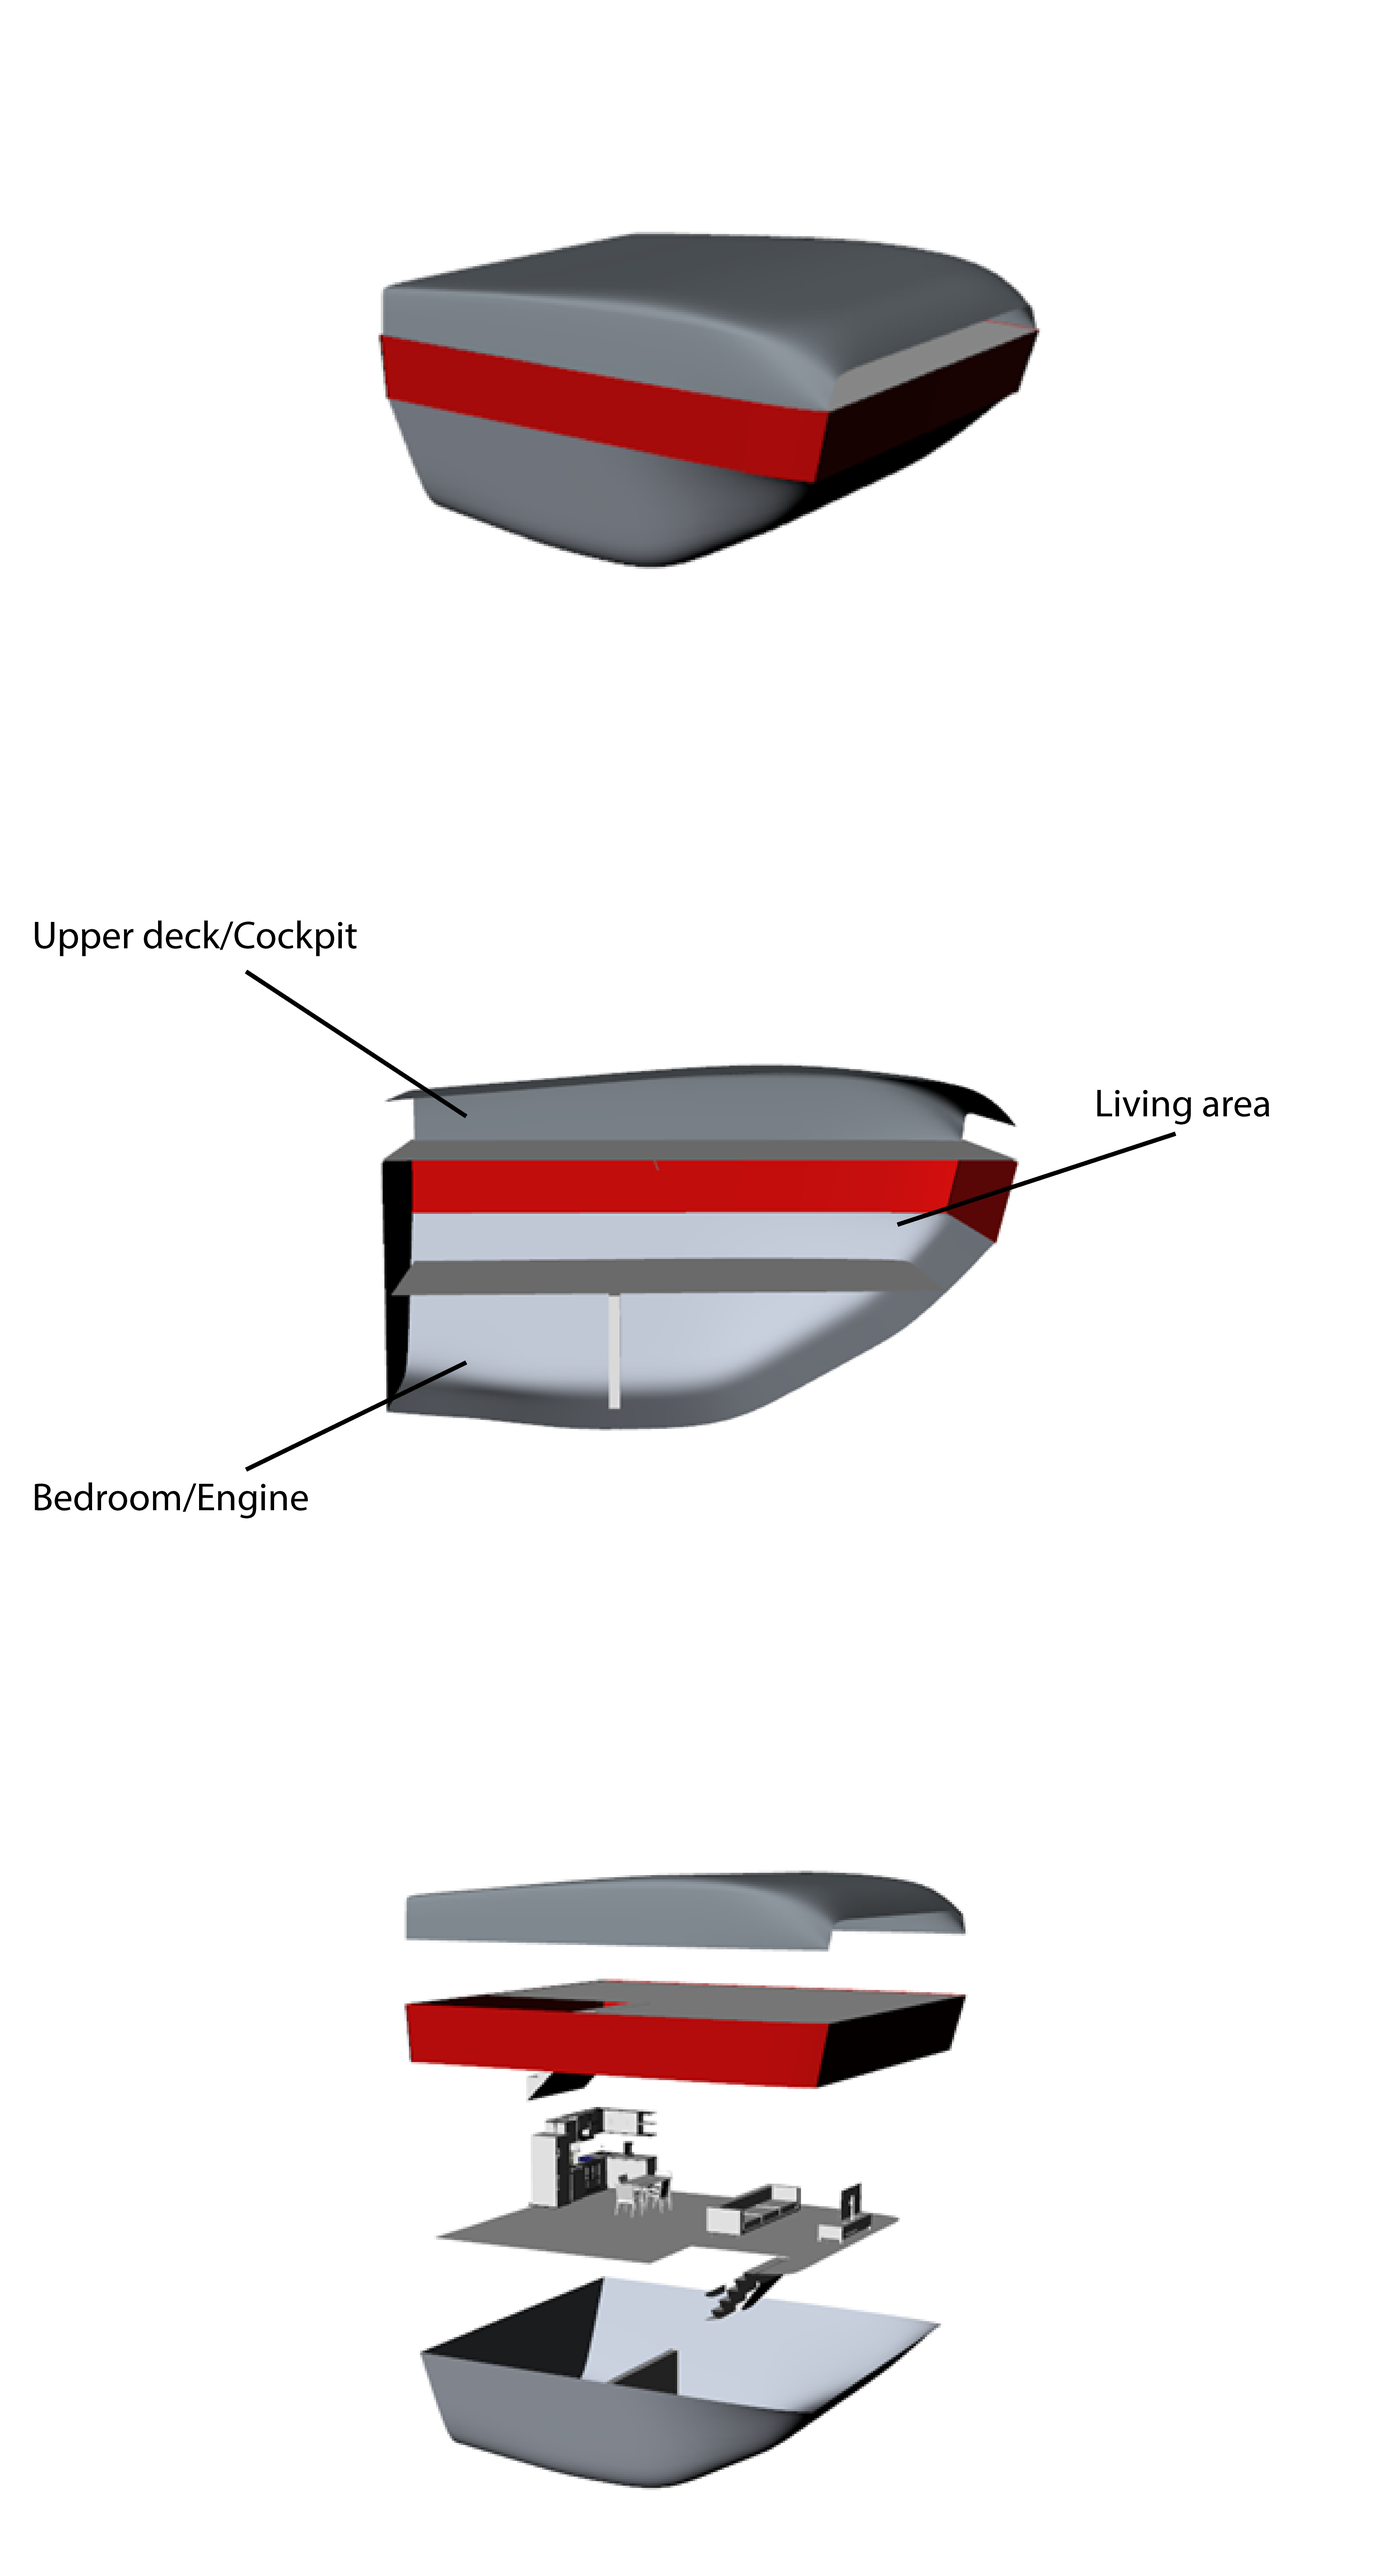
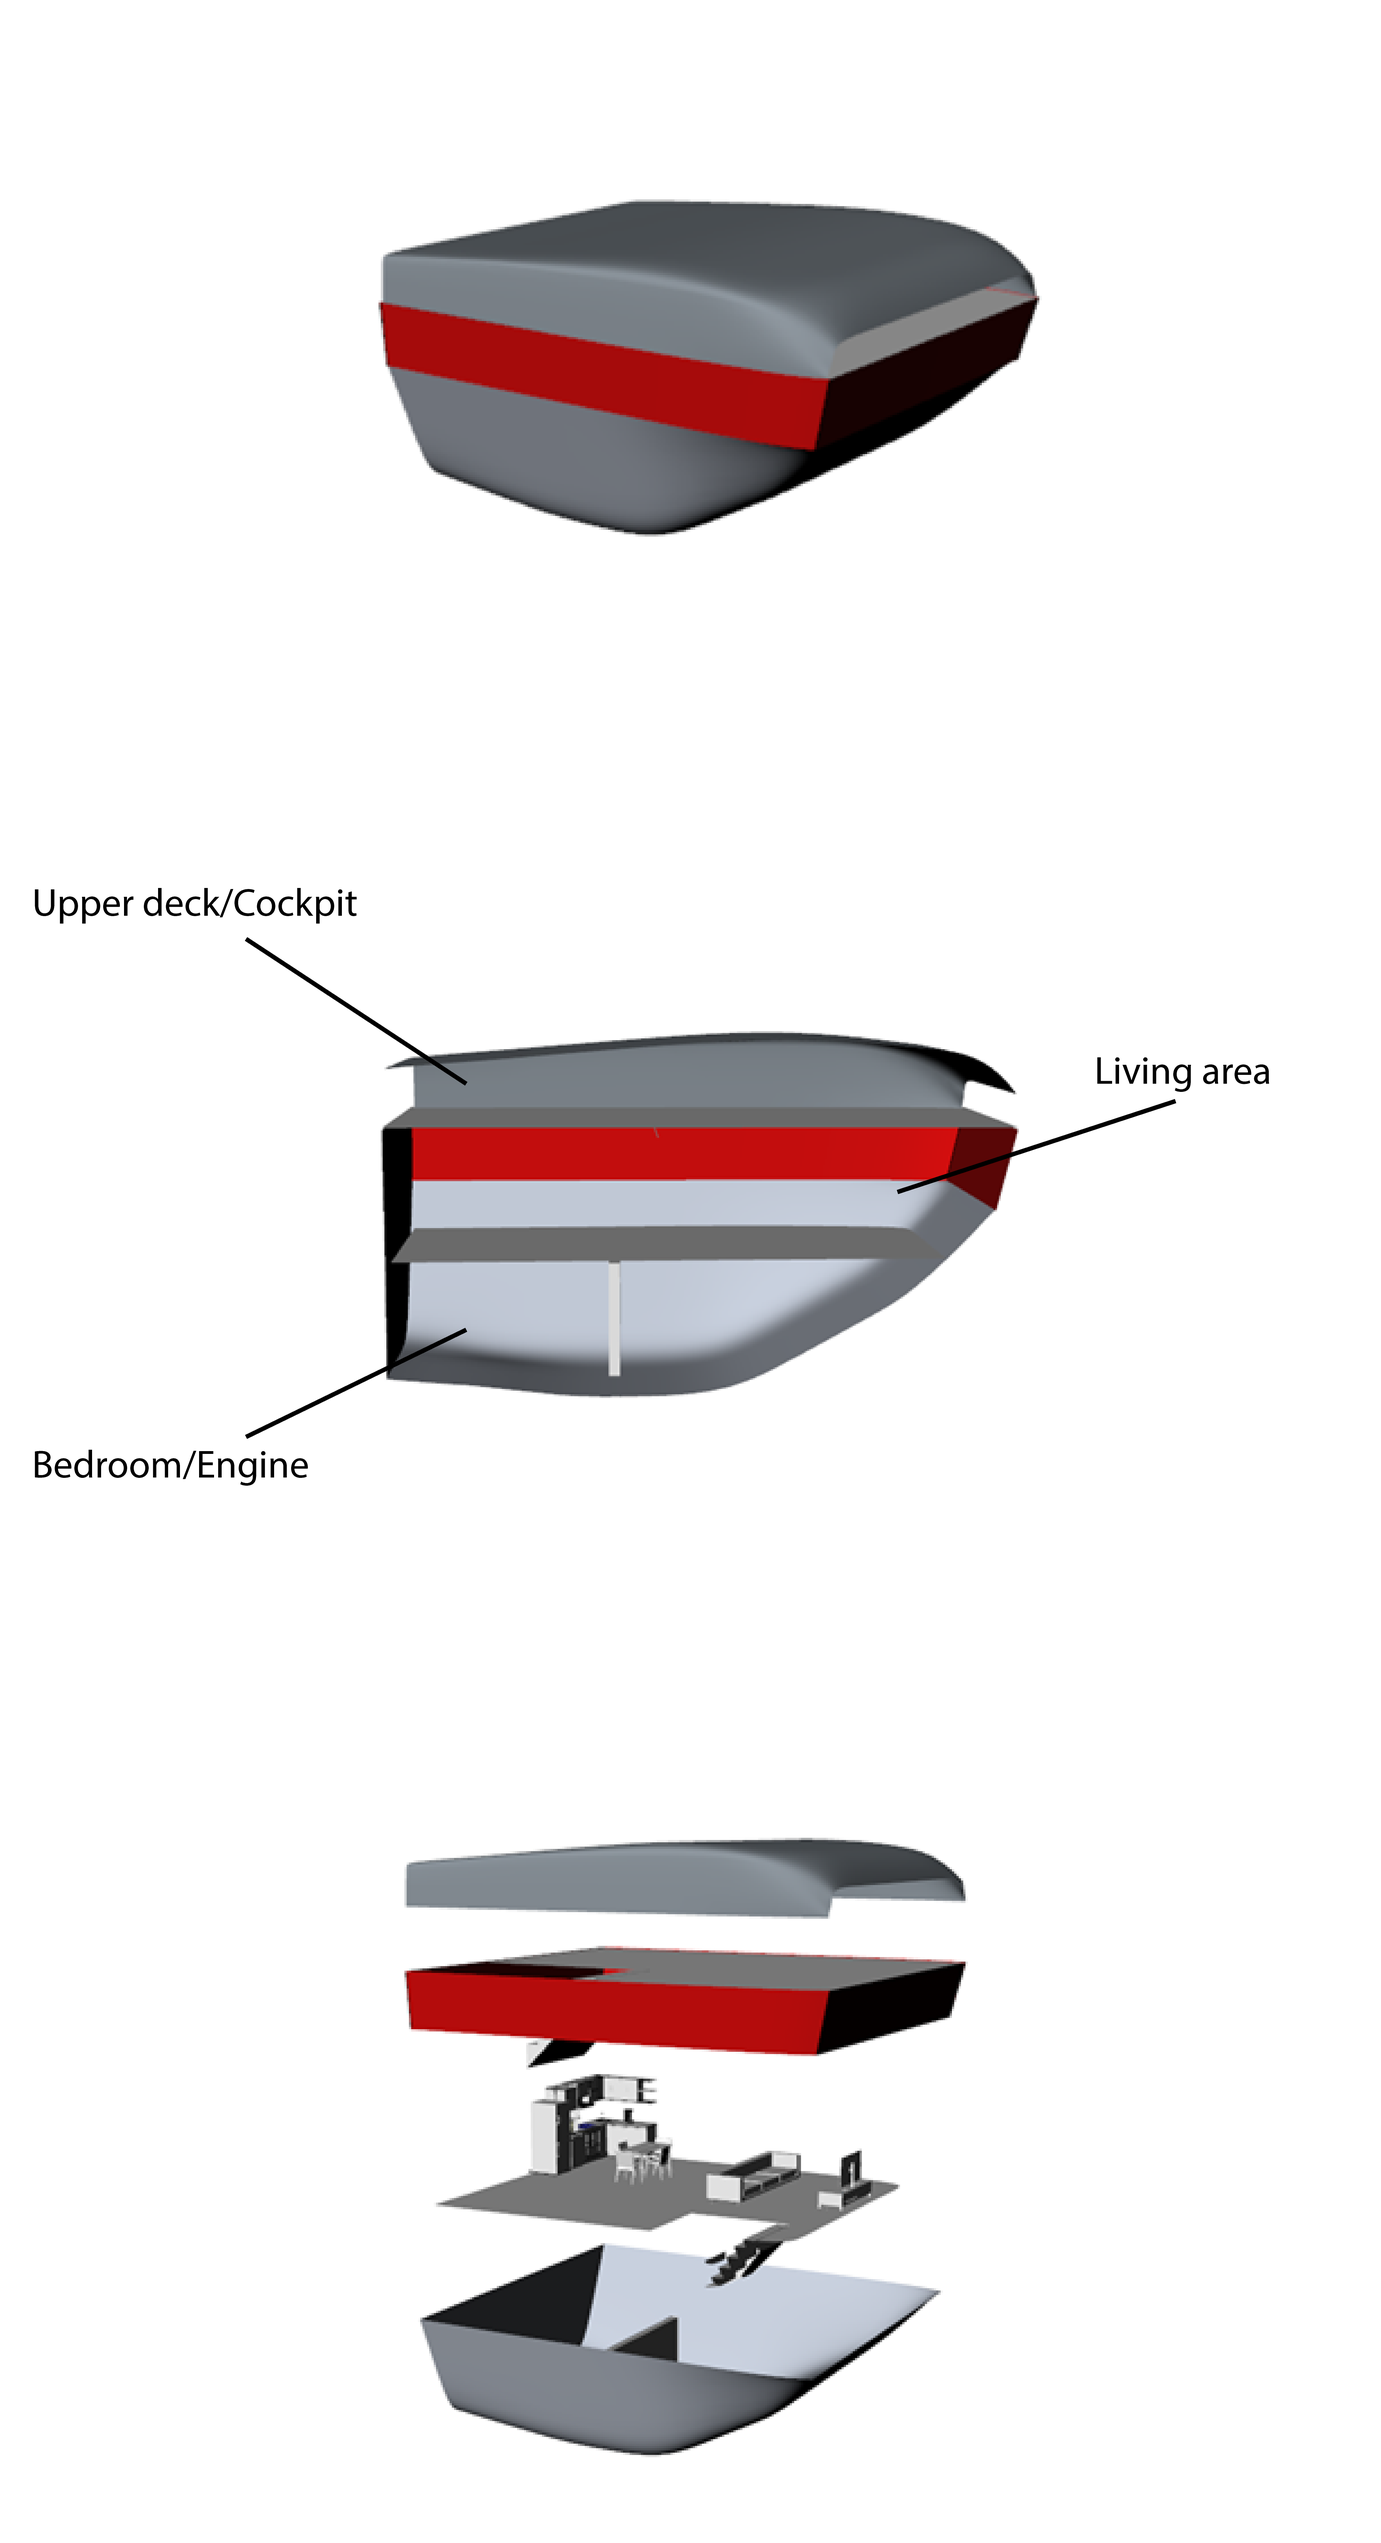
d

diff --git a/index.html b/index.html
@@ -26,11 +26,9 @@ CODE1230:URBAN MODELLING
 
 Current issues in Sydney's age distrition are housing affordability and accessibility which are forcing young adults to invest into expensive new housing in suburbs which are more than 40km away from the CBD. Resulting in hour long commutes to work or missed opportunities to work in a certain area, as well as a population distribution thats depicted by housing prices. As can be seen in the image below, large numbers of age 25 to 40 live in the suburbs farther away from many of the jobs in the CBD and North Sydney. 
 
+<img src="25-40.png" style="width:100%;padding-top:5%">
 </div>
 
-<div class="img2">
-<img src="25-40.png" style="width:50%">
-</div>
 
 
 <div class="caption3-1">
@@ -60,9 +58,7 @@ In order to combat these issues, we have designed a comprehensive water network 
 
 <div class="caption5">
 In order to combat these issues, we have designed a comprehensive water network that will incorporate boat houses that are able to be transported to any area in Greater Sydney at any time. A large waterfront building will be erected at CBDs such as Barangaroo, Parramatta, Homebush, Chatswood and more, effectively connecting these areas via water. This would lead to 
-<img src="http://kyprisnews.com/wp-content/uploads/2016/11/modern-boat-house-in-indonesia-a-modern-floating-house-architects-and-artisans.jpg" style="width:47%;float:left;padding:1%;">
-<img src="https://images.adsttc.com/media/images/55db/3f05/e58e/cec9/9300/0005/large_jpg/NIGHT_VIEW.jpg?1440431866" style="width:49%;float:right;padding:1%;">
-<img src="https://architecturetokyo.files.wordpress.com/2016/09/dsc_3857.jpg?w=876&h=876&crop=1" style="width:47%;float:left;padding:1%;padding-top:1.4%">
+
 </div>
 
 

diff --git a/style.css b/style.css
@@ -164,7 +164,7 @@ h2 {
 
 .caption5 {
   position: absolute;
-  left:40%;
+  left:42.5%;
   top: 310%;
   width: 30%;
   text-align: center;
